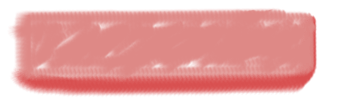
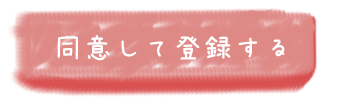
同意して登録するボタン画像入れ替え ボタンhover時に動くよう修正

diff --git a/e_co/src/main/resources/static/eco/css/common.css b/e_co/src/main/resources/static/eco/css/common.css
@@ -193,6 +193,15 @@ body{
 	text-decoration: none;
 	font-size: 28px;
 }
+.registration_text:hover {
+	position:relative;
+	top:3px;
+	left:3px;
+	cursor: pointer;
+	font-family: myfont;
+	text-decoration: none;
+	font-size: 28px;
+}
 
 /*-------------- search --------------*/  
 /*-------- header --------*/  
